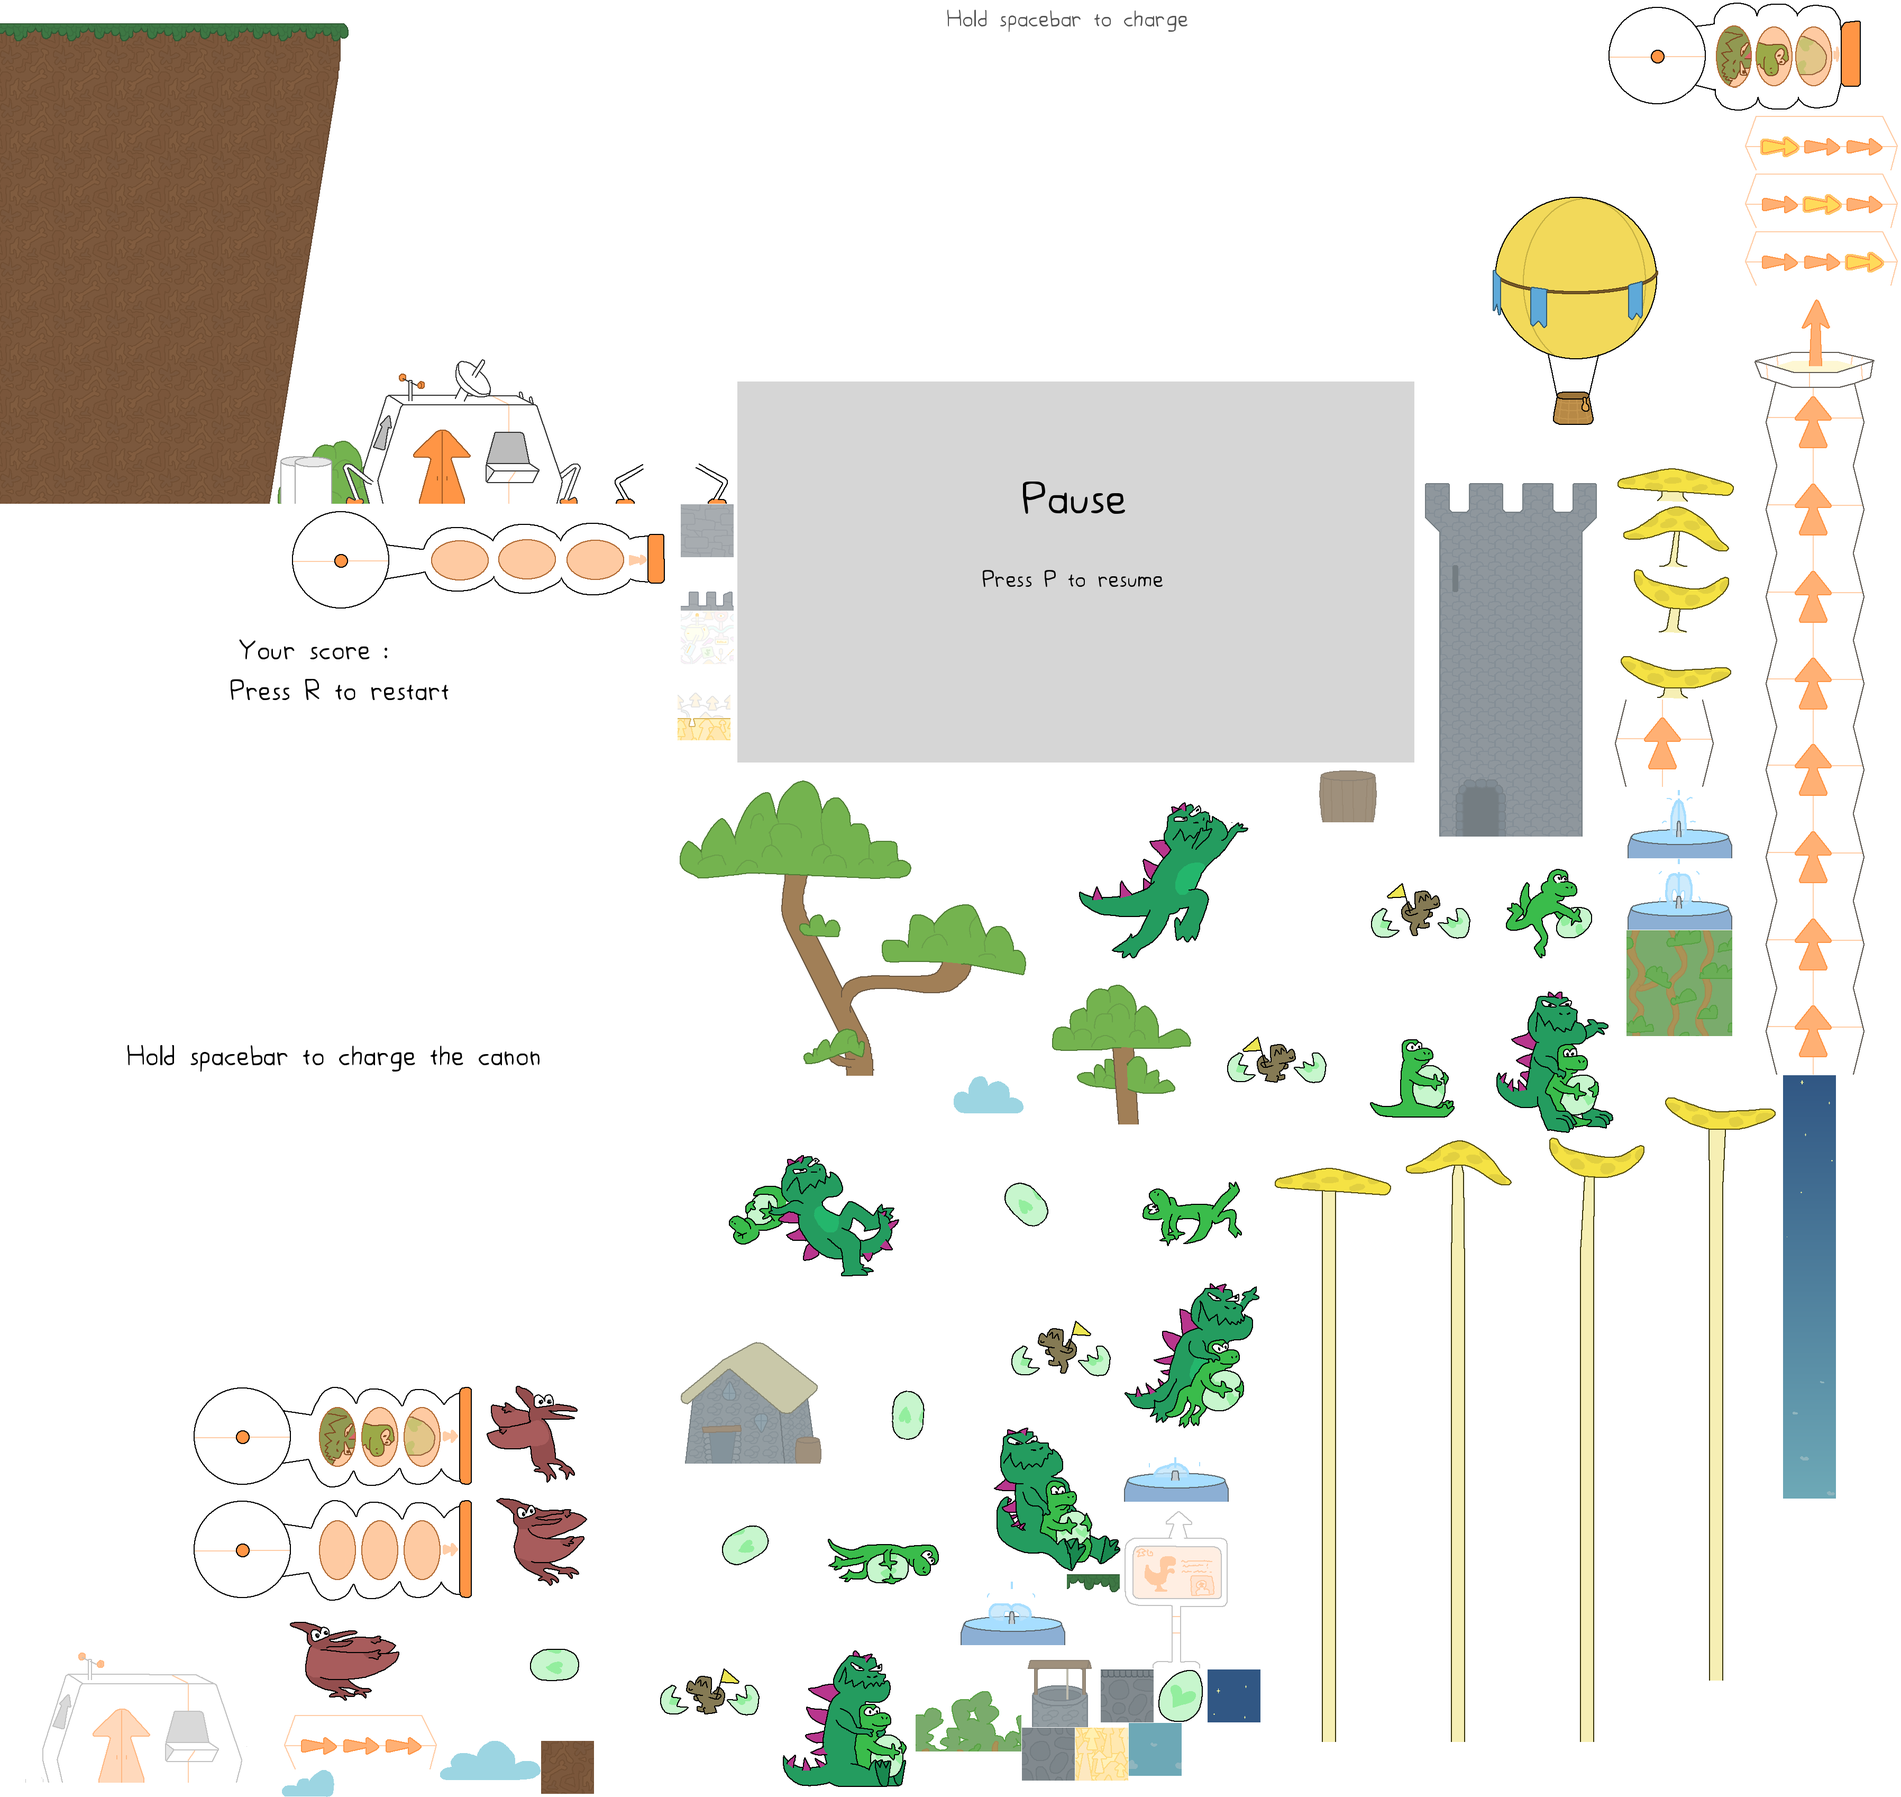
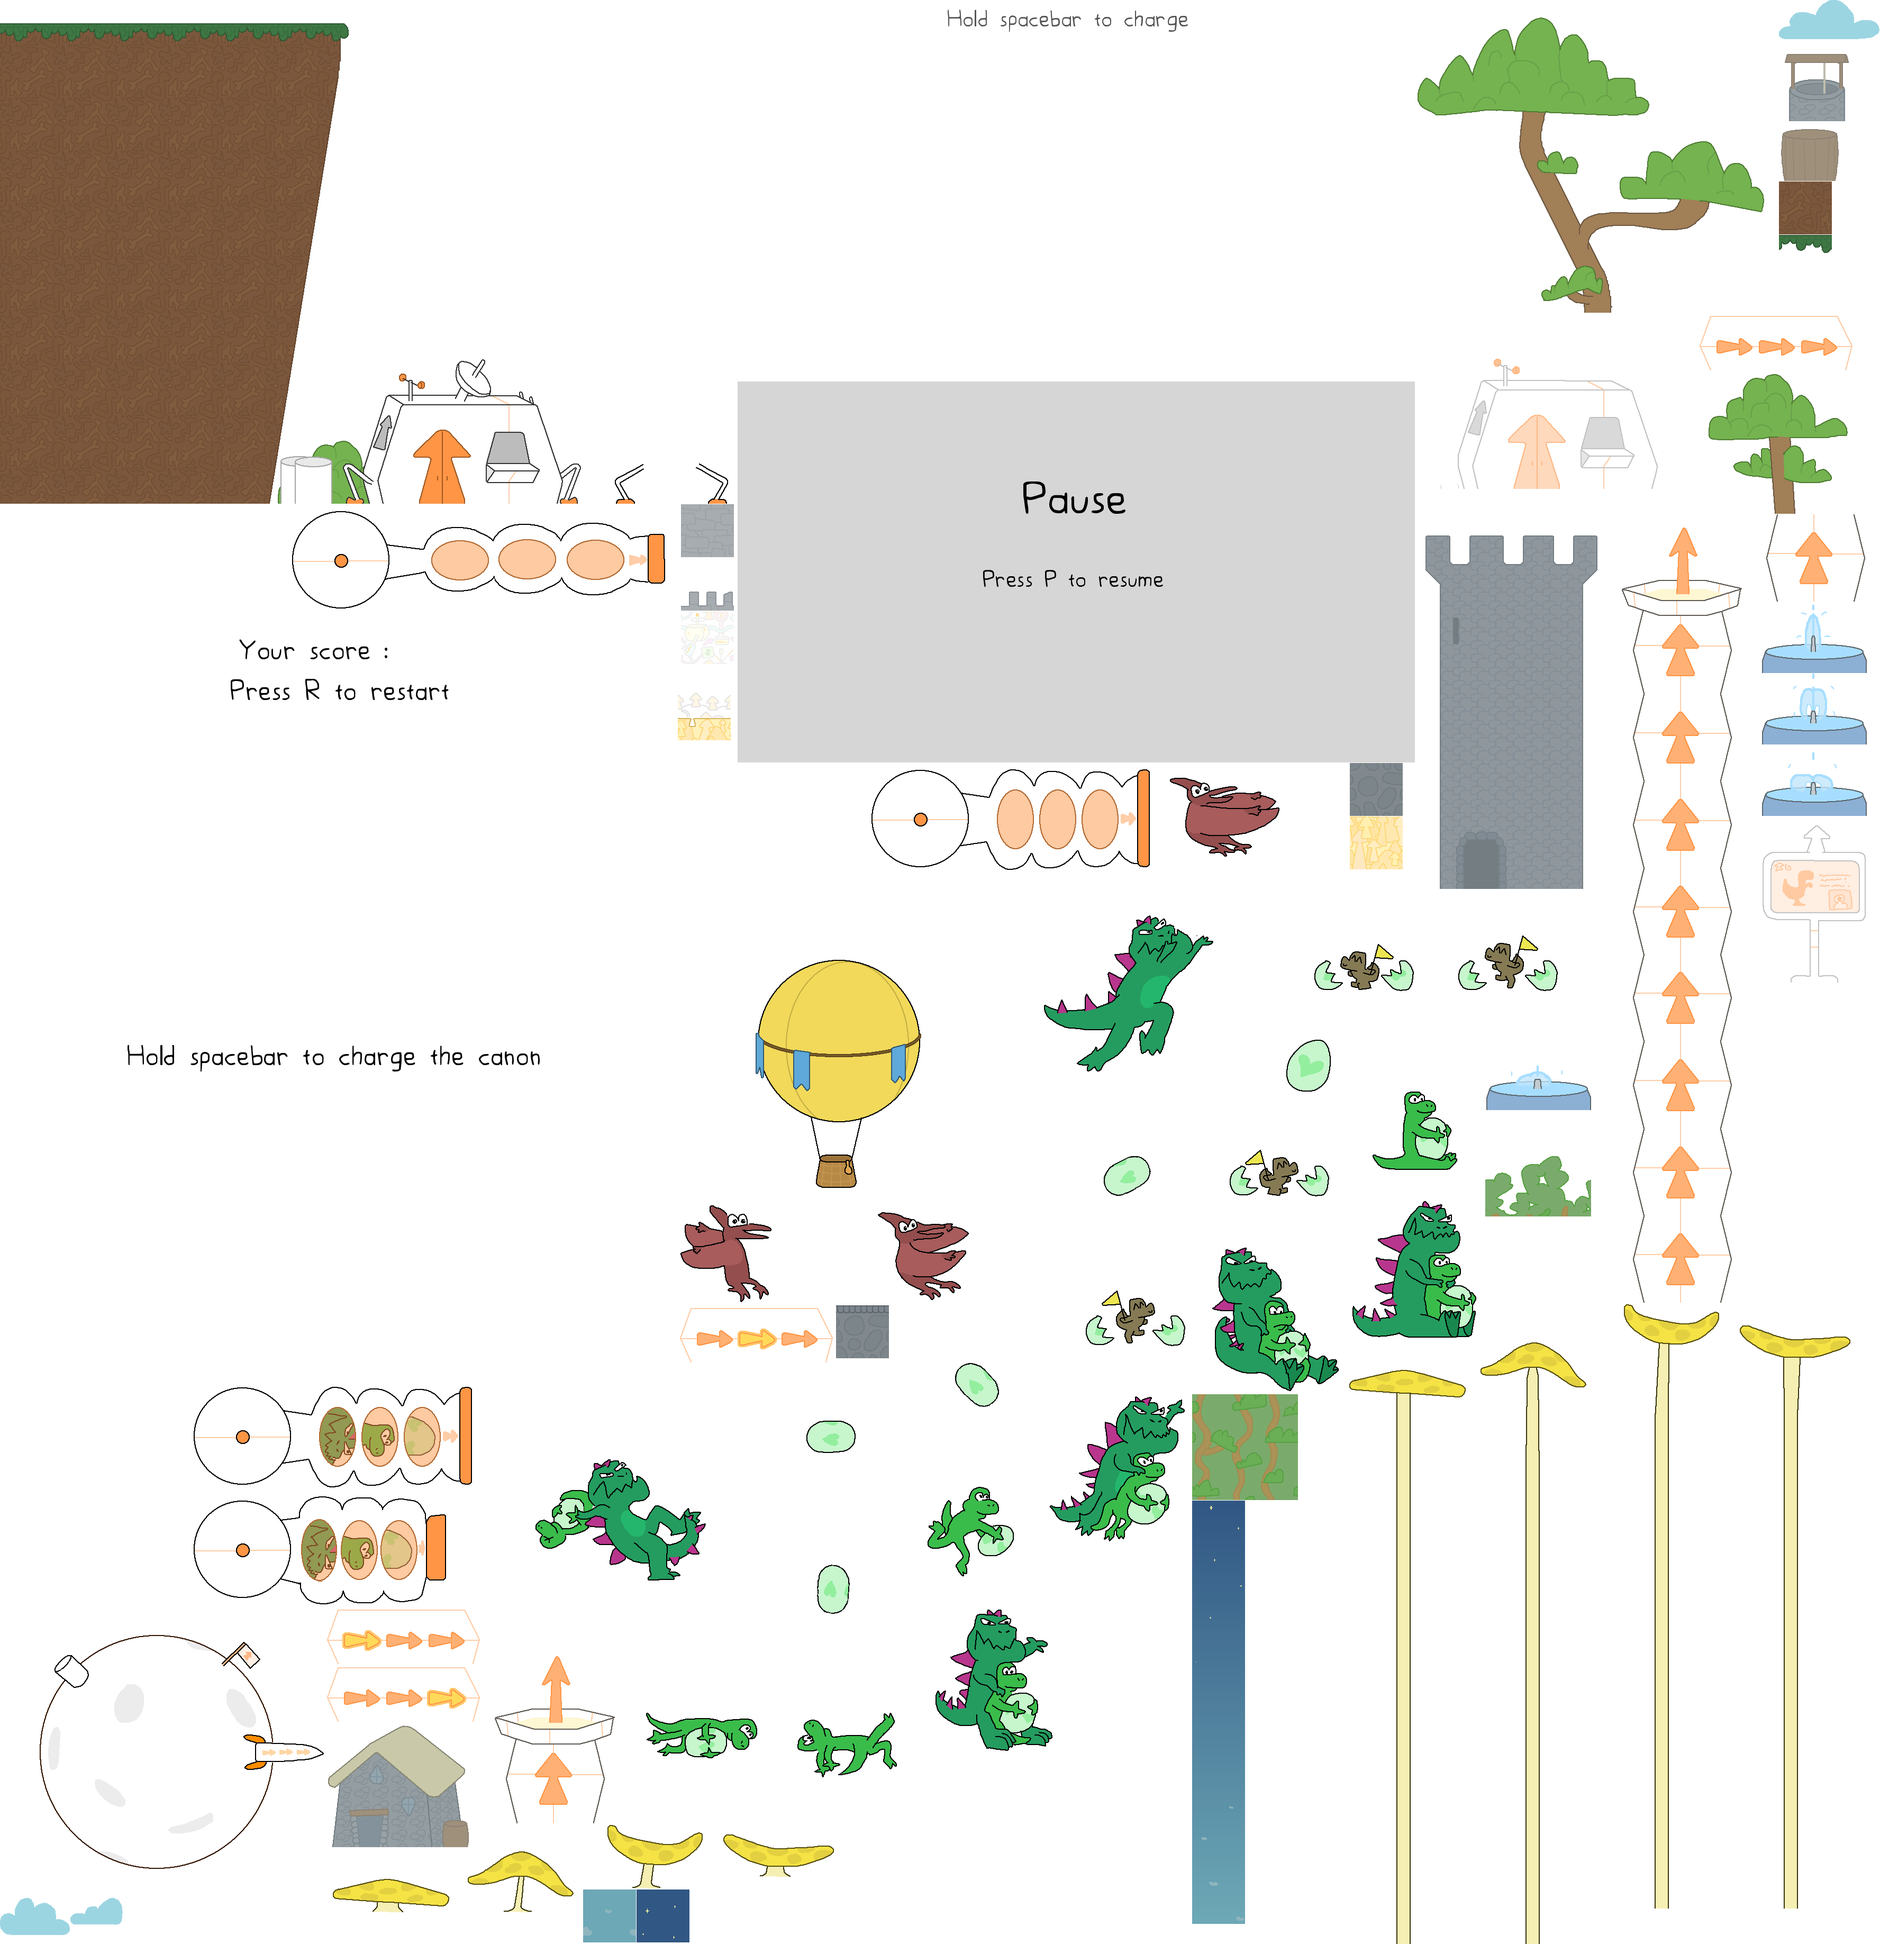
Explode animation

diff --git a/Components/Tower.cs b/Components/Tower.cs
@@ -1,24 +1,89 @@
-using Microsoft.Xna.Framework.Audio;
+using Microsoft.Xna.Framework;
+using Microsoft.Xna.Framework.Audio;
 using Nez;
 using Nez.Sprites;
+using Nez.Textures;
+
+class Part
+{
+    public Vector2 velocity;
+    public SpriteRenderer renderer;
+    private Entity entity;
+
+    public bool DecrementAlpha()
+    {
+        renderer.Color = Color.FromNonPremultiplied(255, 255, 255, renderer.Color.A - 6);
+
+        var hidden = renderer.Color.A <= 0;
+
+        if (hidden)
+            entity.RemoveComponent(renderer);
+
+        return hidden;
+    }
+
+    public Part(Entity entity, float y, Sprite sprite)
+    {
+        this.entity = entity;
+        renderer = entity.AddComponent(new SpriteRenderer(sprite) { LocalOffset = new Vector2(0, y) });
+        renderer.OriginNormalized = new Vector2(.5f, 1);
+
+        var angle = Random.NextAngle();
+        velocity = Mathf.AngleToVector(angle, 4 + Random.NextFloat(3));
+    }
+}
 
 class Tower : WorldObject, ITriggerListener
 {
-    protected SpriteAnimator animator;
     protected SoundEffect breakSound;
+    private Part[] parts;
+    private Vector2 gravity = new Vector2(0, .3f);
 
     public override void OnAddedToEntity()
     {
         var collider = Entity.AddComponent(new BoxCollider(-100, -630, 200, 1370));
         collider.IsTrigger = true;
 
-        animator = Entity.AddComponent(new SpriteAnimator() { LayerDepth = .5f });
-        animator.AddAnimation("idle", new[] { Game.Atlas.GetSprite("future_tower") });
-        animator.AddAnimation("break", new[] { Game.Atlas.GetSprite("bg3") });
+        var part = Game.Atlas.GetSprite("tower_particle");
+        var top = Game.Atlas.GetSprite("tower_top");
+
+        var offset = 750;
+        var height = -165;
+
+        parts = new[] {
+            new Part(Entity, offset + height * 7, top),
+            new Part(Entity, offset + height * 6, part),
+            new Part(Entity, offset + height * 5, part),
+            new Part(Entity, offset + height * 4, part),
+            new Part(Entity, offset + height * 3, part),
+            new Part(Entity, offset + height * 2, part),
+            new Part(Entity, offset + height * 1, part),
+            new Part(Entity, offset + height * 0, part)
+        };
 
         breakSound = Core.Content.Load<SoundEffect>("stomp");
 
         base.OnAddedToEntity();
+    }
+
+    public void PlayAnimation()
+    {
+        Core.Schedule(.01f, true, this, (timer) =>
+        {
+            var end = false;
+
+            foreach (var part in parts)
+            {
+                part.velocity += gravity;
+                part.renderer.LocalOffset += part.velocity;
+
+                if (part.DecrementAlpha())
+                    end = true;
+            }
+
+            if (end)
+                timer.Stop();
+        });
     }
 
     public void OnTriggerEnter(Collider other, Collider local)
@@ -26,12 +91,10 @@ class Tower : WorldObject, ITriggerListener
         var player = other.GetComponent<Player>();
         player.Velocity.X /= 2;
 
-        animator.Play("break", SpriteAnimator.LoopMode.Once);
+        PlayAnimation();
 
         breakSound.Play();
     }
 
-    public void OnTriggerExit(Collider other, Collider local)
-    {
-    }
+    public void OnTriggerExit(Collider other, Collider local) { }
 }
